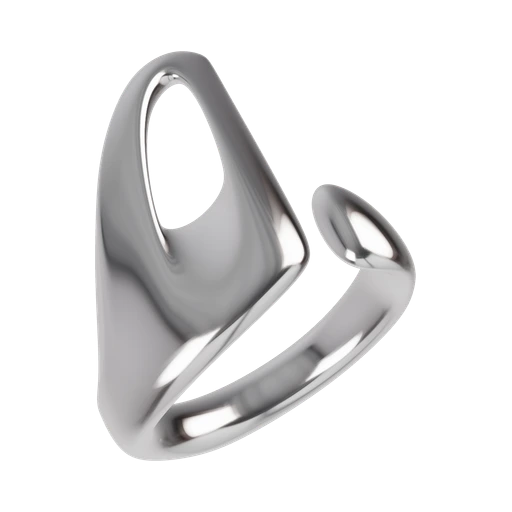
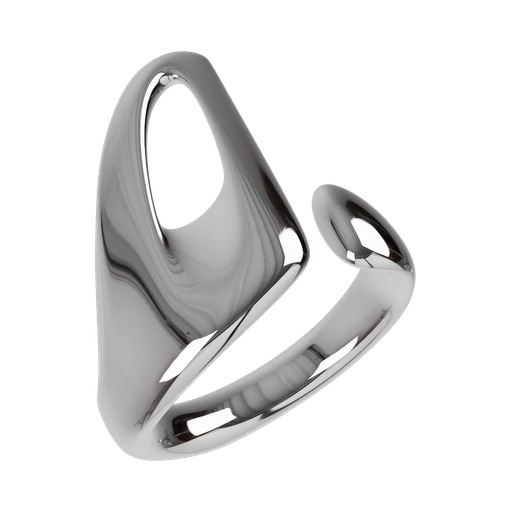
auto-render: light top shots with the studio HDRI instead of RoomEnvironment
Top shots used to be deliberately lit with RoomEnvironment (three.js's
generic procedural IBL) rather than the same studio HDRI every other
render here uses. window.EmjiveModelViewer already sets scene.environment
to the studio HDRI before onReady fires, so the harness's override was
just replacing perfectly good lighting — removed, along with the
now-unused RoomEnvironment import/cache. Includes a re-render of the
existing products' icons/top-shots/swatches under the fixed pipeline.

diff --git a/scripts/auto-render.js b/scripts/auto-render.js
@@ -30,9 +30,9 @@
      alongside "metalDetails") is updated in place to point at it — the old
      file, if the path changed, is deleted.
    - One top shot per product: a straight-down (camera-orbit phi: 0deg)
-     view lit only by a plain procedural room environment (RoomEnvironment,
-     three.js's own stand-in for a neutral studio IBL — deliberately NOT
-     the studio HDRI every other render here uses) plus a soft contact
+     view lit by the same studio HDRI every other render here uses (set by
+     window.EmjiveModelViewer itself before onReady fires — this harness
+     doesn't touch scene.environment for top shots) plus a soft contact
      shadow, rather than the flat/shadowless cutout look of the icons.
      Also includes an invisible "finger" occluder (see scanFingerHole/
      addFingerOccluder below) — with no hand model in these renders, a
@@ -153,7 +153,6 @@ const HARNESS_HTML = `<!doctype html>
 </head><body>
 <script type="module">
   import * as THREE from "three";
-  import { RoomEnvironment } from "three/addons/environments/RoomEnvironment.js";
 
   window.__renderReady = false;
 
@@ -172,10 +171,6 @@ const HARNESS_HTML = `<!doctype html>
   function disposeCurrentHandle() {
     if (currentHandle && currentHandle.renderer) currentHandle.renderer.dispose();
     currentHandle = null;
-    // This harness's own separate RoomEnvironment cache (top-shot-only,
-    // never touched by js/three-viewer.js itself) has the same
-    // one-texture-per-context constraint — see getRoomEnvironment() below.
-    roomEnvCache = null;
   }
 
   function mountTargetWrap(sizePx) {
@@ -212,22 +207,6 @@ const HARNESS_HTML = `<!doctype html>
     wrap.appendChild(handle.el);
     currentHandle = handle;
   };
-
-  // three.js has no built-in neutral-studio IBL the way model-viewer's own
-  // default environment was — RoomEnvironment (three/addons) is the
-  // ecosystem's standard stand-in for exactly this (it's literally modeled
-  // on model-viewer's own built-in environment scene). Cached at module
-  // scope, built lazily on first use, reused across every top-shot render
-  // this run — same reasoning as js/three-viewer.js's own shared HDRI cache.
-  var roomEnvCache = null;
-  function getRoomEnvironment(renderer) {
-    if (!roomEnvCache) {
-      var pmrem = new THREE.PMREMGenerator(renderer);
-      roomEnvCache = pmrem.fromScene(new RoomEnvironment()).texture;
-      pmrem.dispose();
-    }
-    return roomEnvCache;
-  }
 
   // A soft radial-gradient contact shadow under the model, generated
   // on the fly (a plain 2D canvas gradient) rather than a static asset —
@@ -334,11 +313,10 @@ const HARNESS_HTML = `<!doctype html>
   }
 
   // Still built via window.EmjiveModelViewer first — same METAL_PRESETS
-  // material application as every other render — then deliberately
-  // diverges on exactly two things: camera angle (straight down) and
-  // lighting (RoomEnvironment's plain procedural IBL, not the studio HDRI
-  // every other render here uses, plus the soft contact shadow above, so
-  // "light from above" actually reads in a still image).
+  // material application AND same studio HDRI as every other render — then
+  // deliberately diverges on exactly two things: camera angle (straight
+  // down) and the added soft contact shadow below, so "light from above"
+  // actually reads in a still image.
   window.__renderTopShot = function (product, metalKey, sizePx) {
     window.__renderReady = false;
     disposeCurrentHandle();
@@ -354,7 +332,10 @@ const HARNESS_HTML = `<!doctype html>
       transparentBackground: true,
       static: true,
       onReady: function () {
-        handle.scene.environment = getRoomEnvironment(handle.renderer);
+        // handle.scene.environment is already the studio HDRI here —
+        // window.EmjiveModelViewer sets it itself before onReady fires
+        // (see js/three-viewer.js's environmentPromise), so no override
+        // needed.
         // Measured before anything else is added to the scene — both
         // addFingerOccluder and addShadowPlane need the model's own
         // bounding box, not one inflated by each other.
